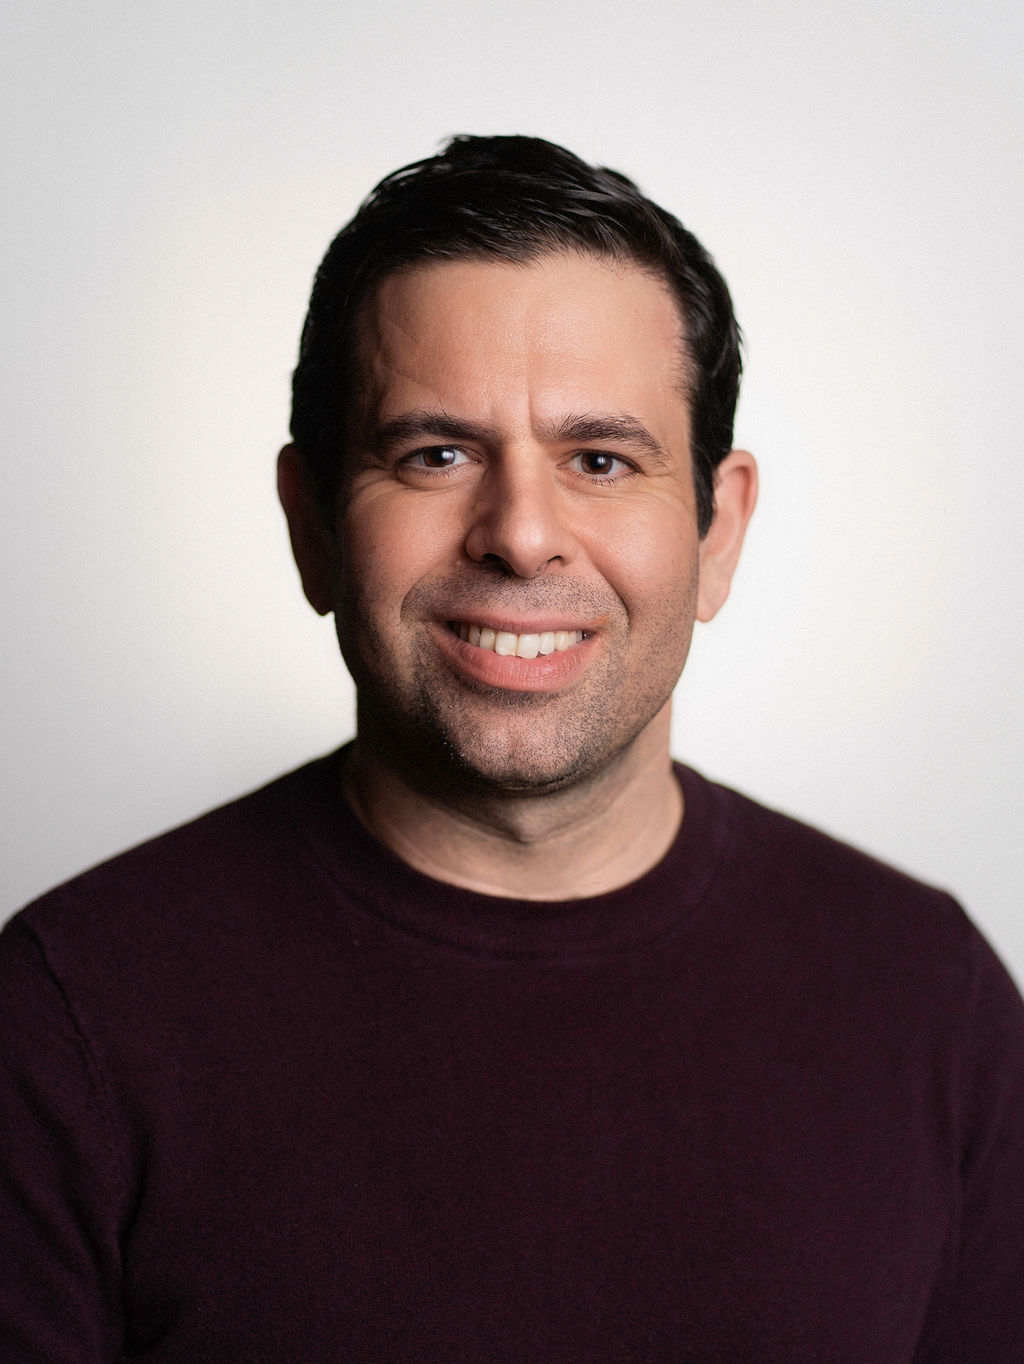
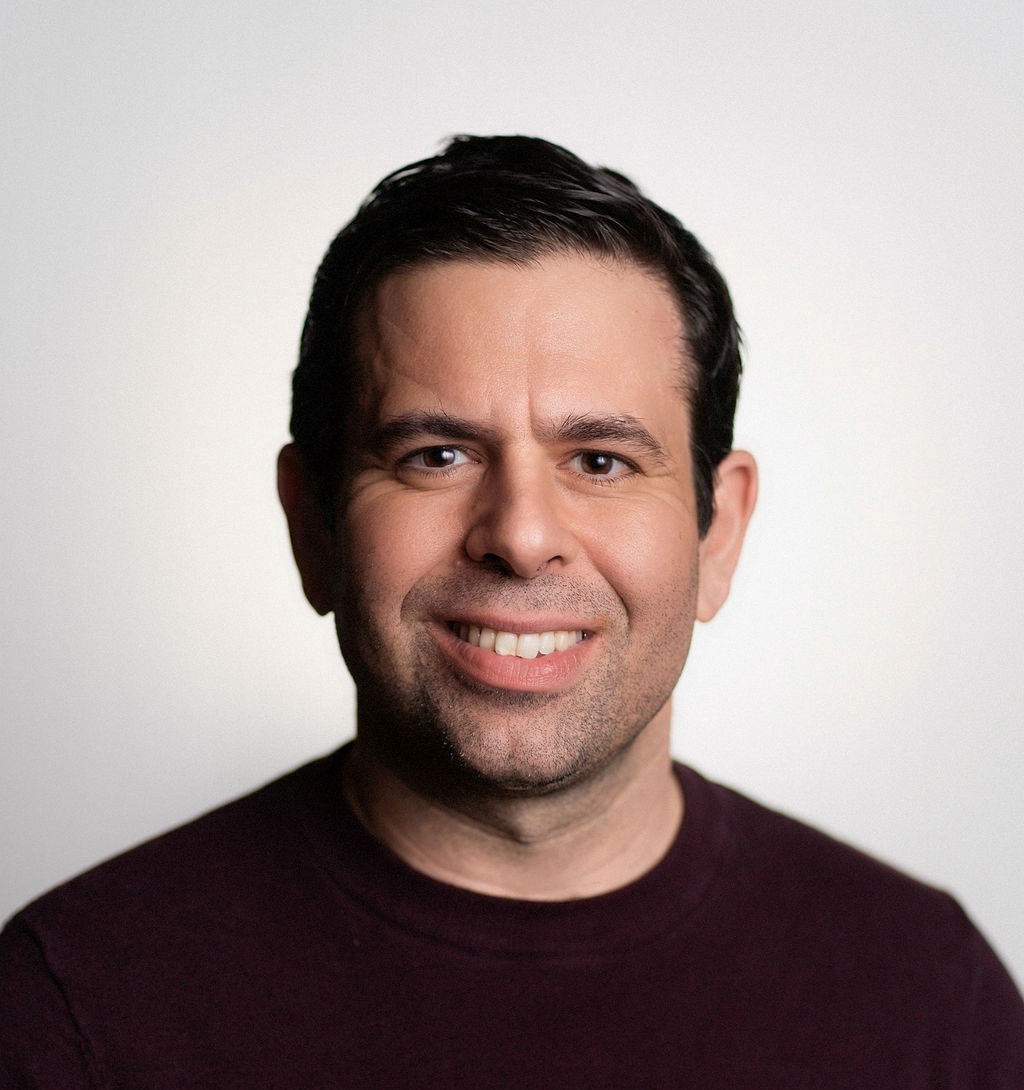
adjust pics

diff --git a/theTeam.html b/theTeam.html
@@ -491,7 +491,7 @@
             name: "Adam Poznanski",
             title: "Co-Founder | Broker ",
             bio: "",
-            image: "adam.jpg",
+            image: "adam2.jpg",
             socialLinks: {
                 facebook: "#",
                 linkedin: "#",
@@ -547,7 +547,7 @@
             name: "Margaret Kotys",
             title: " Commercial Sales | Valuation & Underwriting   ",
             bio: "",
-            image: "koty.jpg",
+            image: "kotys.jpg",
             socialLinks: {
                
             },
